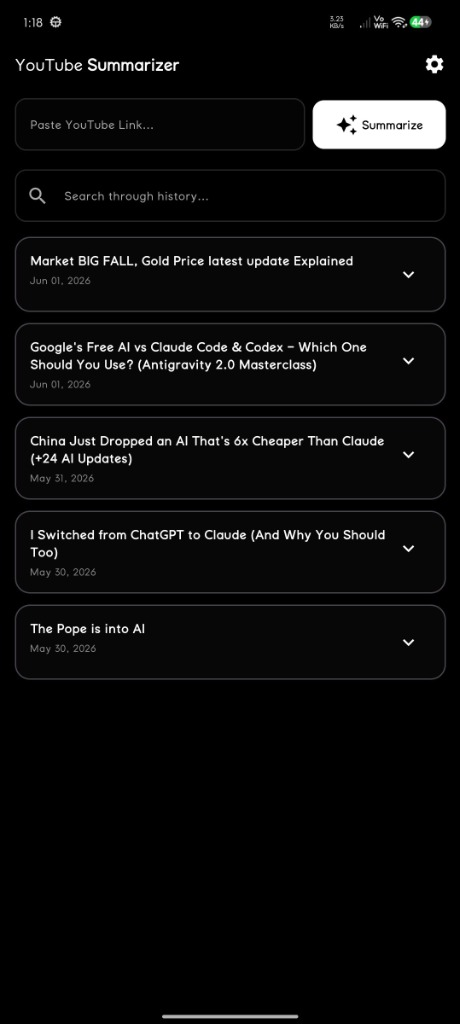
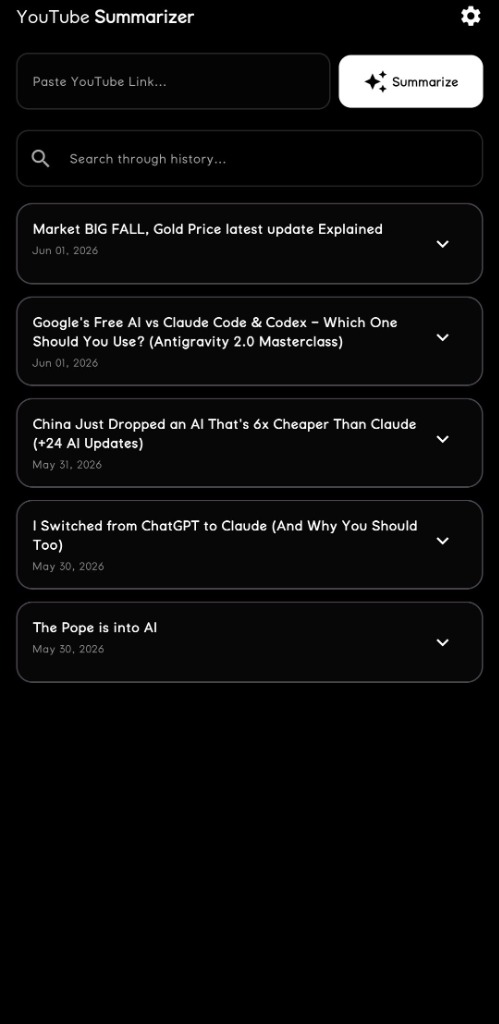
docs: Update screenshots to the final three in correct order

diff --git a/README.md b/README.md
@@ -19,8 +19,9 @@ When browsing YouTube or YouTube Vanced, simply tap **Share** -> select **YouTub
 </p>
 
 <p align="center">
-  <img src="docs/screenshots/summary.jpg" width="250" alt="Summary View" style="margin: 10px;" />
+  <img src="docs/screenshots/settings.jpg" width="250" alt="Settings View" style="margin: 10px;" />
   <img src="docs/screenshots/history.jpg" width="250" alt="History View" style="margin: 10px;" />
+  <img src="docs/screenshots/summary.jpg" width="250" alt="Summary View" style="margin: 10px;" />
 </p>
 
 ---
